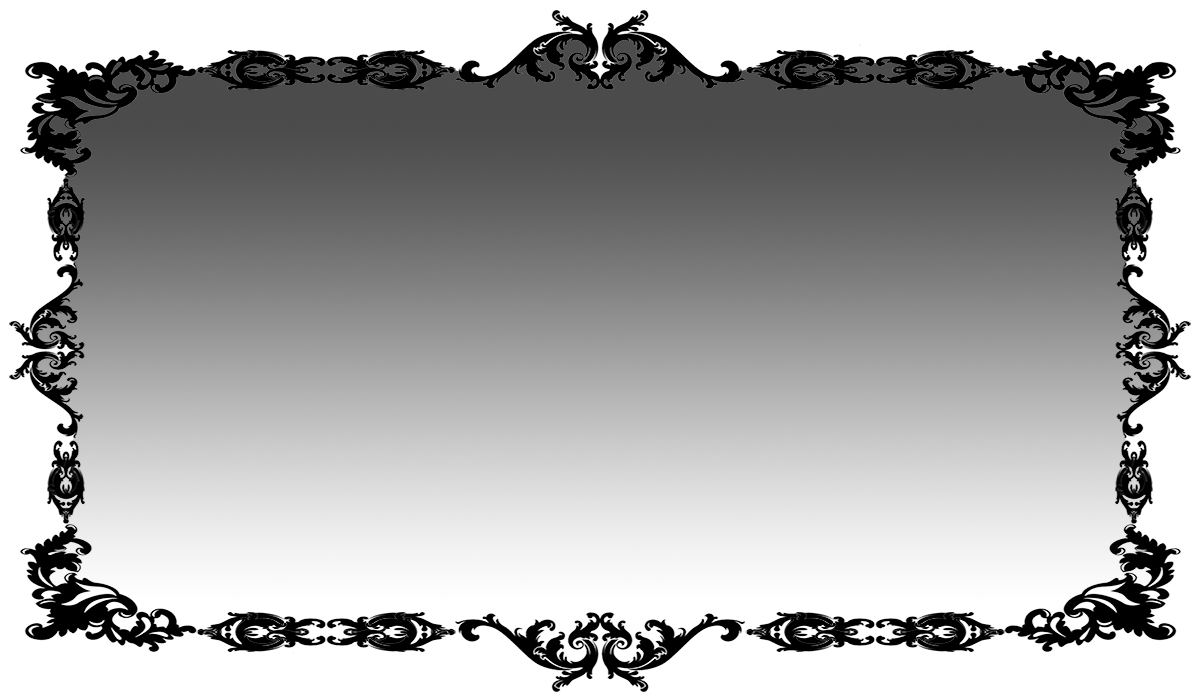
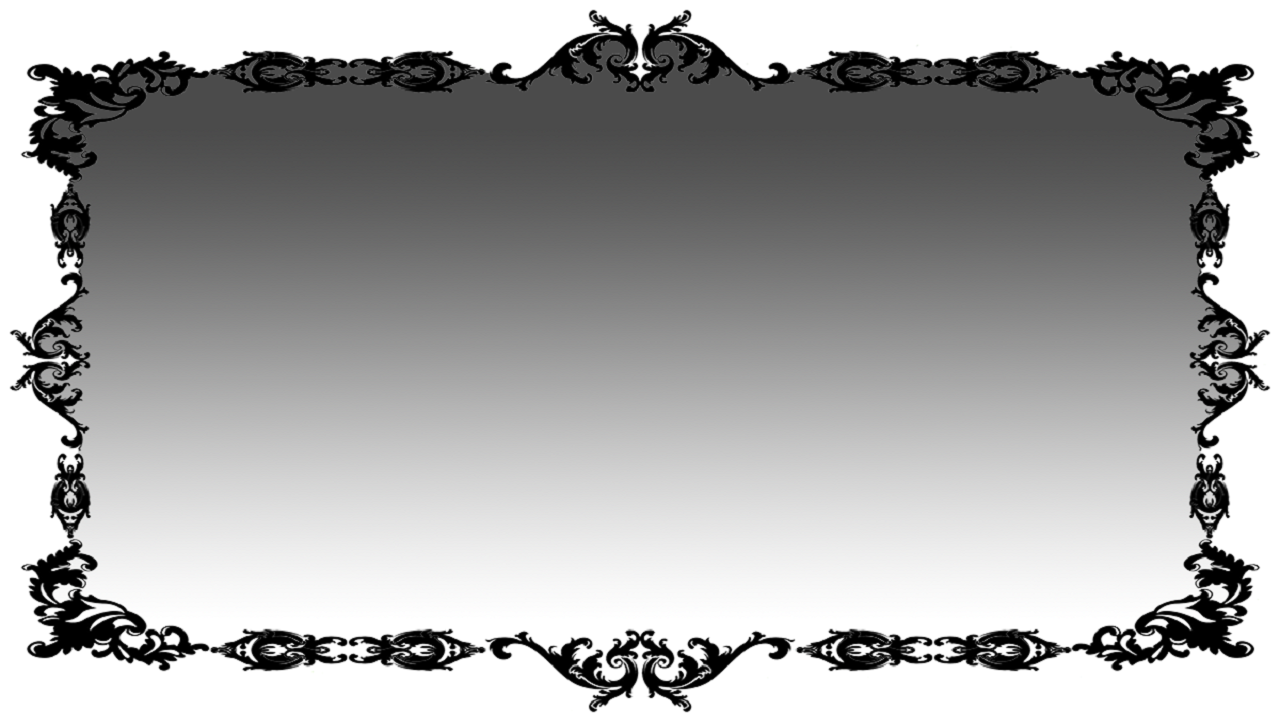
me

diff --git a/core/src/itesm/mx/whacamole/PantallaMenu.java b/core/src/itesm/mx/whacamole/PantallaMenu.java
@@ -1,6 +1,5 @@
 package itesm.mx.whacamole;
 
-import com.badlogic.gdx.Game;
 import com.badlogic.gdx.Gdx;
 import com.badlogic.gdx.Screen;
 import com.badlogic.gdx.graphics.GL20;
@@ -16,7 +15,9 @@ import com.badlogic.gdx.utils.viewport.Viewport;
  * Created by user on 25/01/2016.
  */
 //update
-public class PantallaMenu extends Game implements Screen {
+public class PantallaMenu implements Screen {
+
+    private final Principal principal;
 
     private OrthographicCamera camara;
     private Viewport vista;
@@ -33,18 +34,29 @@ public class PantallaMenu extends Game implements Screen {
     private Sprite spriteBtnPlay;
 
     //Boton Salir
-    private Texture texturaBtnSalir;
-    private Sprite spriteBtnSalir;
+    private Texture texturaBtnInstrucciones;
+    private Sprite spriteBtnInstrucciones;
+
+    //Boton Opciones
+    private Texture texturaBtnOpciones;
+    private Sprite spriteBtnOpciones;
+
+    //Titulo
+
 
     //Dibujar
     private SpriteBatch batch;
+
+    public PantallaMenu(Principal principal) {
+        this.principal = principal;
+    }
 
 
     @Override
     public void show() {
 
         camara = new OrthographicCamera(Principal.ANCHO_MUNDO, Principal.ALTO_MUNDO);
-        camara.position.set(Principal.ANCHO_MUNDO/2,Principal.ALTO_MUNDO/2,0);
+        camara.position.set(Principal.ANCHO_MUNDO / 2, Principal.ALTO_MUNDO / 2, 0);
         camara.update();
         vista = new StretchViewport(Principal.ANCHO_MUNDO, Principal.ALTO_MUNDO,camara);
 
@@ -58,16 +70,24 @@ public class PantallaMenu extends Game implements Screen {
         texturaFondo = new Texture(Gdx.files.internal("M_Fondo.png"));
         spriteFondo = new Sprite(texturaFondo);
 
-       // BotonPlay
+
+        // BotonPlay
         texturaBtnPlay = new Texture(Gdx.files.internal("M_Btn.png"));
         spriteBtnPlay = new Sprite(texturaBtnPlay);
 
-        spriteBtnPlay.setPosition(Principal.ANCHO_MUNDO / 2 - spriteBtnPlay.getWidth() / 2 - 10, Principal.ALTO_MUNDO / 2 - spriteBtnPlay.getRegionHeight() / 2 - 114);
+        spriteBtnPlay.setPosition(Principal.ANCHO_MUNDO / 2 - spriteBtnPlay.getWidth()/2, Principal.ALTO_MUNDO / 2 - spriteBtnPlay.getRegionHeight() / 2 - 140);
 
         //Boton Salir
- //       texturaBtnSalir = new Texture(Gdx.files.internal("exitBtn.png"));
-   //     spriteBtnSalir = new Sprite(texturaBtnSalir);
-     //   spriteBtnSalir.setPosition(Principal.ANCHO_MUNDO / 2 - spriteBtnPlay.getWidth() / 2, Principal.ALTO_MUNDO / 4 - spriteBtnPlay.getRegionHeight() / 2);
+        texturaBtnInstrucciones = new Texture(Gdx.files.internal("M_Btn.png"));
+        spriteBtnInstrucciones = new Sprite(texturaBtnInstrucciones);
+        spriteBtnInstrucciones.setPosition(Principal.ANCHO_MUNDO / 2 - spriteBtnPlay.getWidth()-200 / 2, Principal.ALTO_MUNDO/2-100);
+
+        //Boton Opciones
+        texturaBtnOpciones = new Texture(Gdx.files.internal("M_Btn.png"));
+        spriteBtnOpciones = new Sprite(texturaBtnInstrucciones);
+        spriteBtnOpciones.setPosition(Principal.ANCHO_MUNDO / 2 + 100, Principal.ALTO_MUNDO / 2 - 100);
+
+        //texto
 
     }
 
@@ -75,21 +95,25 @@ public class PantallaMenu extends Game implements Screen {
     @Override
     public void render(float delta) {
         //Borrar la pantalla
-        leerEntrada();
+
         Gdx.gl.glClearColor(1, 1, 1, 1);
         Gdx.gl.glClear(GL20.GL_COLOR_BUFFER_BIT);
-
         batch.setProjectionMatrix(camara.combined);
+        leerEntrada();
+
+
         leerEntrada();
         batch.begin();
         spriteFondo.draw(batch);
         spriteBtnPlay.draw(batch);
-        //spriteBtnSalir.draw(batch);
+        spriteBtnInstrucciones.draw(batch);
+        spriteBtnOpciones.draw(batch);
+
         batch.end();
 
     }
 
-    @Override
+
     public void create() {
 
     }
@@ -131,7 +155,7 @@ public class PantallaMenu extends Game implements Screen {
                     touchX<spriteBtnPlay.getX()+spriteBtnPlay.getWidth()
                     && touchY>=spriteBtnPlay.getY()
                     && touchY<=spriteBtnPlay.getY()+spriteBtnPlay.getHeight()){
-                Gdx.app.exit();
+                    principal.setScreen(new PantallaInstrucciones(principal));
             }
         }
 

diff --git a/core/src/itesm/mx/whacamole/PantallaInstrucciones.java b/core/src/itesm/mx/whacamole/PantallaInstrucciones.java
@@ -1,0 +1,115 @@
+package itesm.mx.whacamole;
+
+import com.badlogic.gdx.Gdx;
+import com.badlogic.gdx.Screen;
+import com.badlogic.gdx.audio.Music;
+import com.badlogic.gdx.audio.Sound;
+import com.badlogic.gdx.graphics.GL20;
+import com.badlogic.gdx.graphics.OrthographicCamera;
+import com.badlogic.gdx.graphics.Texture;
+import com.badlogic.gdx.graphics.g2d.Sprite;
+import com.badlogic.gdx.graphics.g2d.SpriteBatch;
+import com.badlogic.gdx.math.Vector3;
+import com.badlogic.gdx.utils.Array;
+import com.badlogic.gdx.utils.viewport.StretchViewport;
+import com.badlogic.gdx.utils.viewport.Viewport;
+
+/**
+ * Created by rmroman on 04/02/16.
+ */
+public class PantallaInstrucciones implements Screen
+{
+    private final Principal principal;
+    private OrthographicCamera camara;
+    private Viewport vista;
+
+    // Fondo
+    private Texture texturaFondo;
+    private Sprite spriteFondo;
+
+    // Dibujar
+    private SpriteBatch batch;
+
+
+
+    //Sonids
+
+
+    public PantallaInstrucciones(Principal principal) {
+        this.principal = principal;
+    }
+
+
+    @Override
+    public void show() {
+        // Se ejecuta cuando se muestra la pantalla
+        camara = new OrthographicCamera(Principal.ANCHO_MUNDO, Principal.ALTO_MUNDO);
+        camara.position.set(Principal.ANCHO_MUNDO/2, Principal.ALTO_MUNDO/2, 0);
+        camara.update();
+        vista = new StretchViewport(Principal.ANCHO_MUNDO, Principal.ALTO_MUNDO,camara);
+
+        batch = new SpriteBatch();
+
+        cargarTexturasSprites();
+
+    }
+
+
+
+    private void cargarTexturasSprites() {
+        // Fondo
+        texturaFondo = new Texture(Gdx.files.internal("M_Fondo.png"));
+        spriteFondo = new Sprite(texturaFondo);
+    }
+
+    @Override
+    public void render(float delta) {
+        // Leer
+        leerEntrada();
+
+        // Actualizar objetos
+        // Borrar la pantalla
+        Gdx.gl.glClearColor(1, 1, 1, 1);
+        Gdx.gl.glClear(GL20.GL_COLOR_BUFFER_BIT);
+        // Proyectamos la cámara sobre batch
+        batch.setProjectionMatrix(camara.combined);
+        // Dibujamos
+        batch.begin();
+
+        spriteFondo.draw(batch);
+
+        batch.end();
+    }
+
+    @Override
+    public void resize(int width, int height) {
+        vista.update(width,height);
+    }
+
+    @Override
+    public void pause() {
+
+    }
+
+    @Override
+    public void resume() {
+
+    }
+
+    @Override
+    public void hide() {
+
+    }
+
+    private void leerEntrada() {
+
+    }
+
+    @Override
+    public void dispose() {
+        // Cuando la PantallaMenu sale de memoria.
+        // LIBERAR los recursos
+        texturaFondo.dispose(); // regresamos la memoria
+
+    }
+}

diff --git a/core/src/itesm/mx/whacamole/Principal.java b/core/src/itesm/mx/whacamole/Principal.java
@@ -8,14 +8,14 @@ import com.badlogic.gdx.graphics.Texture;
 import com.badlogic.gdx.graphics.g2d.SpriteBatch;
 
 public class Principal extends Game {
-	public static final int ALTO_MUNDO = 700;
+	public static final int ALTO_MUNDO = 720;
 	public static final int ANCHO_MUNDO = 1280;
 
 
 	@Override
 	public void create () {
 
-		setScreen(new PantallaMenu());
+		setScreen(new PantallaMenu(this));
 	}
 
 
